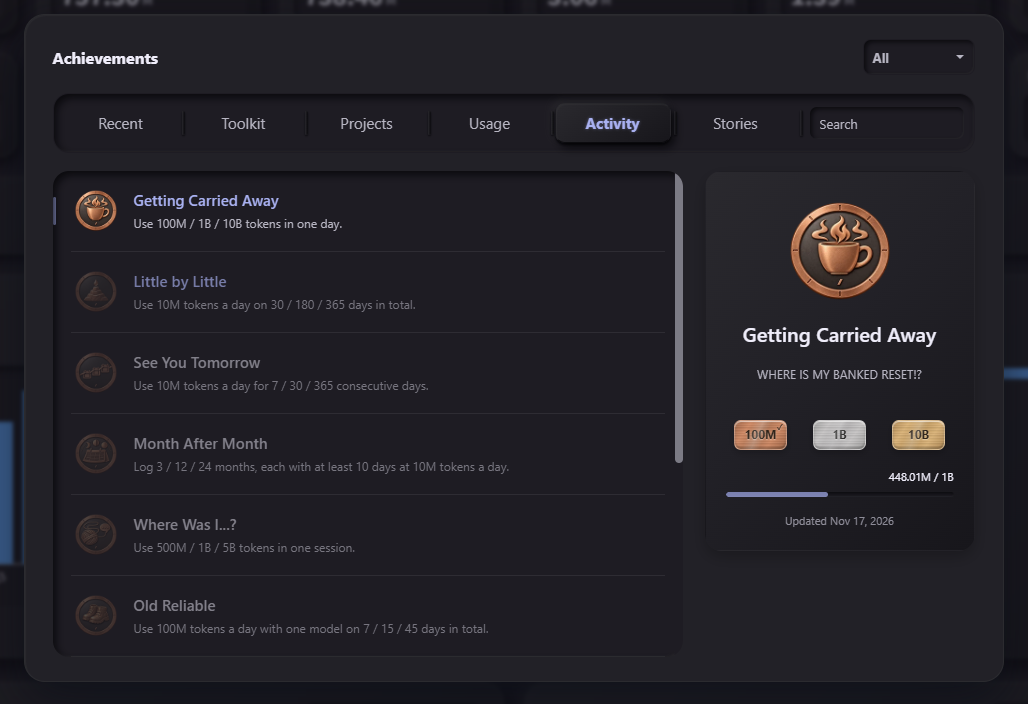
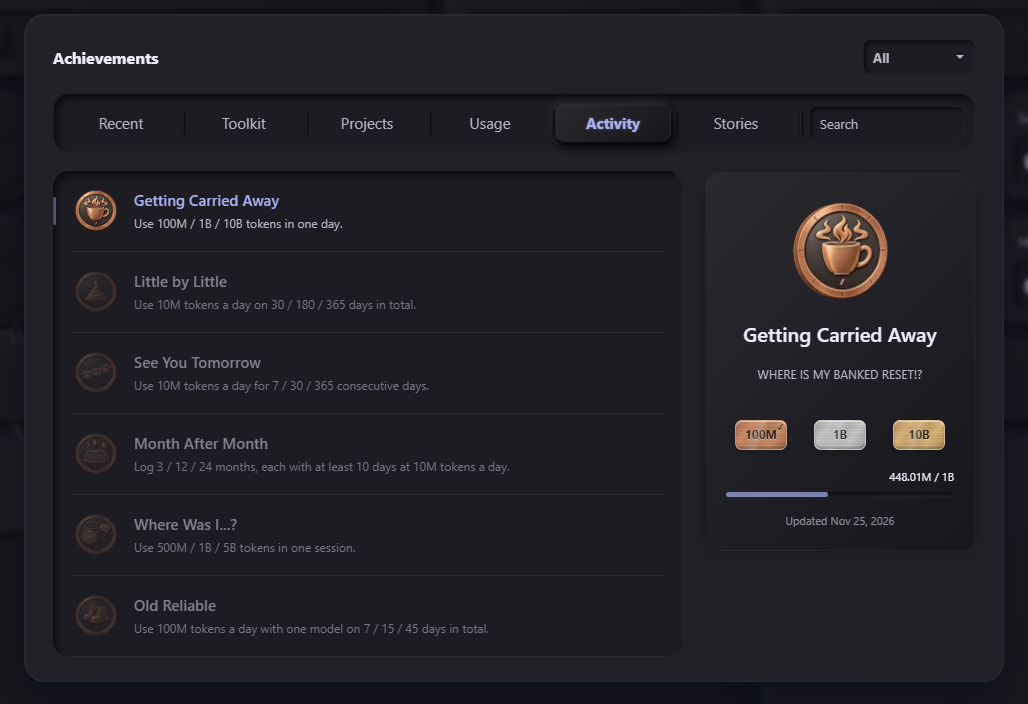
docs: refresh README screenshots and show achievement share cards

diff --git a/README.en.md b/README.en.md
@@ -78,6 +78,13 @@ Use PowerShell 7 to create a desktop shortcut for Waifu or Lite, then double-cli
 
 ![Achievements and badges](docs/images/achievements.png)
 
+Achievement share card previews
+
+<p align="center">
+  <a href="docs/images/achievement-share-deepseek-light.png"><img src="docs/images/achievement-share-deepseek-light.png" width="48%" alt="Freebie King silver badge on the Chinese DeepSeek light share card"></a>
+  <a href="docs/images/achievement-share-claude-dark-en.png"><img src="docs/images/achievement-share-claude-dark-en.png" width="48%" alt="Let's Sync Up gold badge on the English Claude dark share card"></a>
+</p>
+
 **Sources and history.** Scan local logs or import another directory, refresh automatically, or pause the current view. Back up, import, and restore history to keep your records over time and move them between machines.
 
 ![Data source management](docs/images/sources.png)

diff --git a/README.md b/README.md
@@ -78,6 +78,13 @@ Waifu 和 Lite 都可以用 PowerShell 7 创建桌面快捷方式，之后双击
 
 ![成就与徽章](docs/images/achievements.png)
 
+成就分享卡预览
+
+<p align="center">
+  <a href="docs/images/achievement-share-deepseek-light.png"><img src="docs/images/achievement-share-deepseek-light.png" width="48%" alt="薅羊毛大王银牌，DeepSeek 浅色中文成就分享卡"></a>
+  <a href="docs/images/achievement-share-claude-dark-en.png"><img src="docs/images/achievement-share-claude-dark-en.png" width="48%" alt="Let's Sync Up 金牌，Claude 深色英文成就分享卡"></a>
+</p>
+
 **来源与历史。** 扫描本机日志或导入其他目录，自动刷新，也可暂停当前视图。支持历史备份、导入与恢复，方便长期保留和转移使用记录。
 
 ![数据来源管理](docs/images/sources.png)
